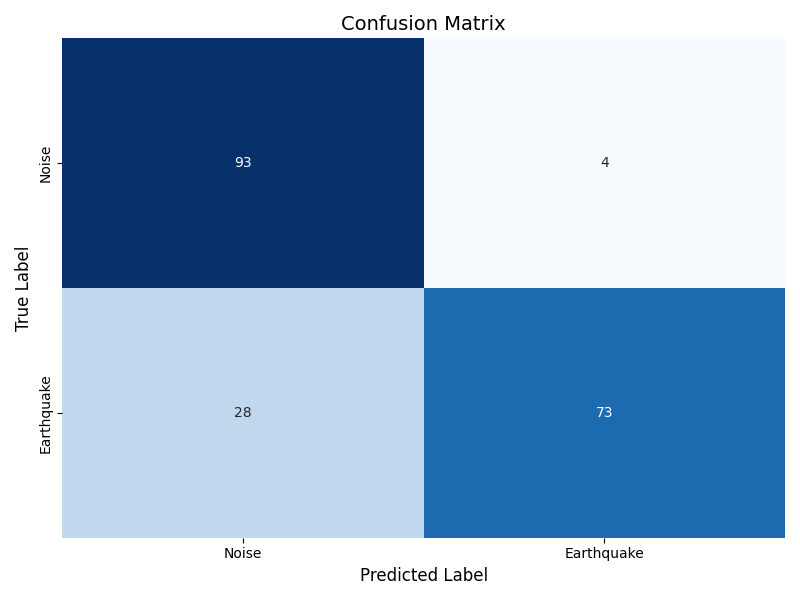
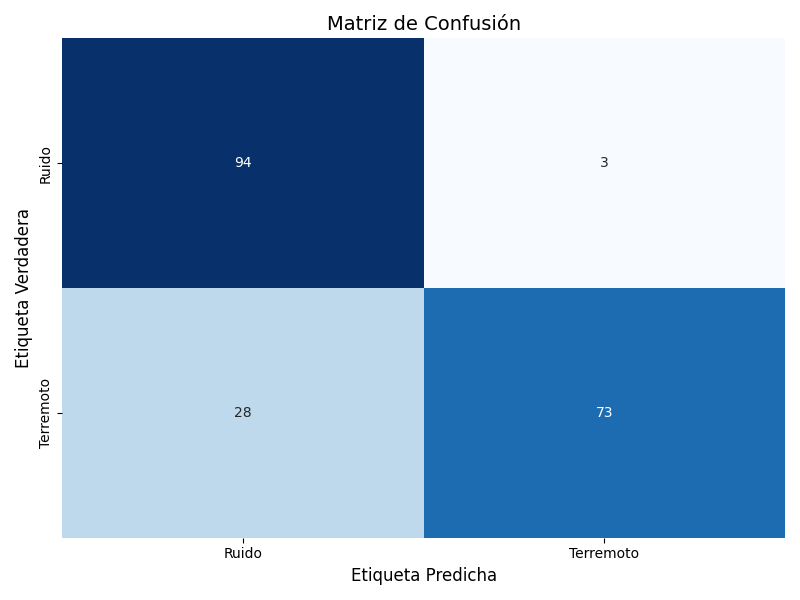
Corrige bottleneck_distance y la usa en el mejor modelo

diff --git a/src/utils.py b/src/utils.py
@@ -160,46 +160,50 @@ def bottleneck_distance(dgm1, dgm2):
         float: Distancia bottleneck entre los dos diagramas.
     """
     from scipy.optimize import linear_sum_assignment
-    
+
+    # Filtrar puntos con coordenadas infinitas para evitar matrices inviables
+    dgm1 = dgm1[np.isfinite(dgm1).all(axis=1)]
+    dgm2 = dgm2[np.isfinite(dgm2).all(axis=1)]
+
     # Handle edge cases
     if len(dgm1) == 0 and len(dgm2) == 0:
         return 0.0
-    
+
     if len(dgm1) == 0:
-        # All points in dgm2 go to diagonal
         return max(abs(dgm2[i, 1] - dgm2[i, 0]) / 2.0 for i in range(len(dgm2)))
-    
+
     if len(dgm2) == 0:
-        # All points in dgm1 go to diagonal
         return max(abs(dgm1[i, 1] - dgm1[i, 0]) / 2.0 for i in range(len(dgm1)))
-    
+
     n1, n2 = len(dgm1), len(dgm2)
     n = n1 + n2
-    
-    # Initialize cost matrix
-    cost_matrix = np.zeros((n, n))
-    
+
+    # Inicializar matriz de costos con infinito
+    cost_matrix = np.full((n, n), np.inf)
+
     # Top-left block (n1 x n2): point-to-point matching costs
     for i in range(n1):
         for j in range(n2):
-            cost_matrix[i, j] = max(abs(dgm1[i, 0] - dgm2[j, 0]), abs(dgm1[i, 1] - dgm2[j, 1]))
-    
-    # Top-right block (n1 x n1): dgm1 points to diagonal (diagonal matrix)
+            cost_matrix[i, j] = max(
+                abs(dgm1[i, 0] - dgm2[j, 0]),
+                abs(dgm1[i, 1] - dgm2[j, 1])
+            )
+
+    # Top-right block (n1 x n1): match dgm1 points to their diagonal slots
     for i in range(n1):
         persistence = abs(dgm1[i, 1] - dgm1[i, 0])
         cost_matrix[i, n2 + i] = persistence / 2.0
-    
-    # Bottom-left block (n2 x n2): dgm2 points to diagonal (diagonal matrix)
+
+    # Bottom-left block (n2 x n2): match dgm2 points to their diagonal slots
     for j in range(n2):
         persistence = abs(dgm2[j, 1] - dgm2[j, 0])
         cost_matrix[n1 + j, j] = persistence / 2.0
-    
-    # Bottom-right block (n2 x n1): already zeros (dummy to dummy)
-    
+
+    # Bottom-right block (dummy-to-dummy) stays inf; not used
+
     # Solve assignment problem
     row_ind, col_ind = linear_sum_assignment(cost_matrix)
-    
-    # Return maximum cost in the matching
+
     return cost_matrix[row_ind, col_ind].max()
 
 def compute_distances(dgm1, dgm2):

diff --git a/scripts/06_best_model.py b/scripts/06_best_model.py
@@ -27,7 +27,7 @@ import src.utils as ut
 
 # Configuración para el modelo TE basada en run_grid_search.py
 BEST_PARAMS = {
-    'distance': wasserstein,
+    'distance': ut.bottleneck_distance,
     'weights': (2, 1),
     'thresh': 1888.8889,
     'tau': 4,
@@ -39,7 +39,7 @@ BEST_PARAMS = {
 }
 
 # La búsqueda de cuadrícula usó seed=28, así que debemos usarla aquí para reproducibilidad
-MODEL_SEED = 28 
+MODEL_SEED = 28
 
 RESULTS_DIR = Path(__file__).parent.parent / "data" / "results" / "best_model_analysis"
 
@@ -116,7 +116,7 @@ def main():
     """Flujo de ejecución principal."""
     # Configuración
     RESULTS_DIR.mkdir(parents=True, exist_ok=True)
-    np.random.seed(42)
+    np.random.seed(MODEL_SEED)
     
     print("=" * 70)
     print("EVALUACIÓN Y EXPLORACIÓN DEL MEJOR MODELO")
